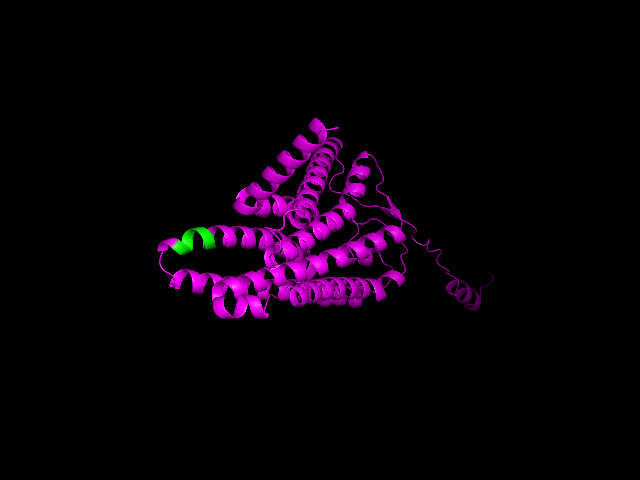
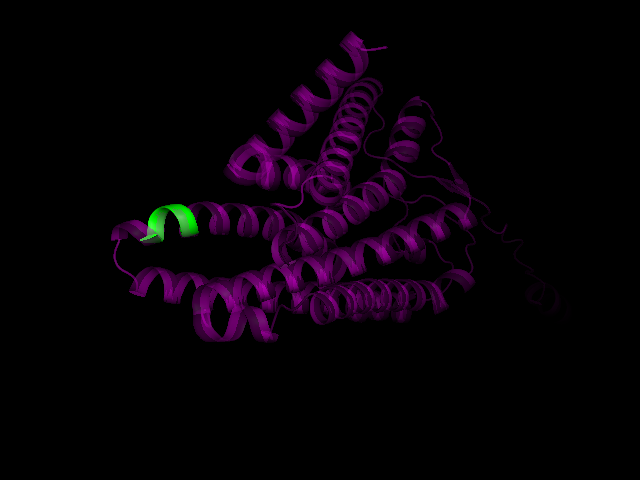
Updated transparency for image quality

Changed region(s): [[0.1562, 0.0625, 0.75, 0.7188]]

diff --git a/RF/Feature_Importance/Find3Di.py b/RF/Feature_Importance/Find3Di.py
@@ -1,4 +1,4 @@
-#This script visualizes the most important structure elements in the proteins
+#This script must be interpreted in pymol and visualizes the most important structure elements in the proteins
 #Script must be run while pwd is in the RF directory
 
 import sys
@@ -36,6 +36,7 @@ for filename in os.listdir(directory):
         cmd.hide("everything")
         cmd.show("cartoon", name_of_protein)
         cmd.color("magenta", name_of_protein)
+        cmd.set("cartoon_transparency",  "0.75", name_of_protein)
         
         name = name_of_protein.replace("AF-", "")
         name = name.replace("-F1", "")
@@ -53,7 +54,9 @@ for filename in os.listdir(directory):
                     printstatement1 += 'Resi ' + str(structure) + '-' + str(structure+5)
                     i = 1
                 cmd.select("Di1", printstatement1)
-                cmd.color("red", "Di1")
+                cmd.create("obj1", "Di1")
+                cmd.color("red", "obj1")
+                cmd.set("cartoon_transparency",  "0", "obj1")
                 save = True
             
             if len(resinumber(name,'PPNVS', 4)) > 0:
@@ -65,7 +68,9 @@ for filename in os.listdir(directory):
                     printstatement2 += 'Resi ' + str(structure) + '-' + str(structure+5)
                     i = 1
                 cmd.select("Di2", printstatement2)
-                cmd.color("orange", "Di2")
+                cmd.create("obj2","Di2")
+                cmd.color("orange", "obj2")
+                cmd.set("cartoon_transparency",  "0", "obj2")
                 save = True
             
             if len(resinumber(name,'PNPSS', 4)) > 0:
@@ -77,7 +82,9 @@ for filename in os.listdir(directory):
                     printstatement3 += 'Resi ' + str(structure) + '-' + str(structure+5)
                     i = 1
                 cmd.select("Di3", printstatement3)
-                cmd.color("yellow", "Di3")
+                cmd.create("obj3", "Di3")
+                cmd.color("yellow", "obj3")
+                cmd.set("cartoon_transparency",  "0", "obj3")
                 save = True
             
             if len(resinumber(name,'VNPLV', 3)) > 0:
@@ -89,7 +96,9 @@ for filename in os.listdir(directory):
                     printstatement4 += 'Resi ' + str(structure) + '-' + str(structure+5)
                     i = 1
                 cmd.select("Di4", printstatement4)
-                cmd.color("green", "Di4")
+                cmd.create("obj4", "Di4")
+                cmd.color("green", "obj4")
+                cmd.set("cartoon_transparency",  "0", "obj4")
                 save = True
 
             if len(resinumber(name,'VVCCV', 4)) > 0:
@@ -101,7 +110,9 @@ for filename in os.listdir(directory):
                     printstatement5 += 'Resi ' + str(structure) + '-' + str(structure+5)
                     i = 1
                 cmd.select("Di5", printstatement5)
-                cmd.color("blue", "Di5")
+                cmd.create("obj5", "Di5")
+                cmd.color("blue", "obj5")
+                cmd.set("cartoon_transparency",  "0", "obj5")
                 save = True
 
         #Save as png
